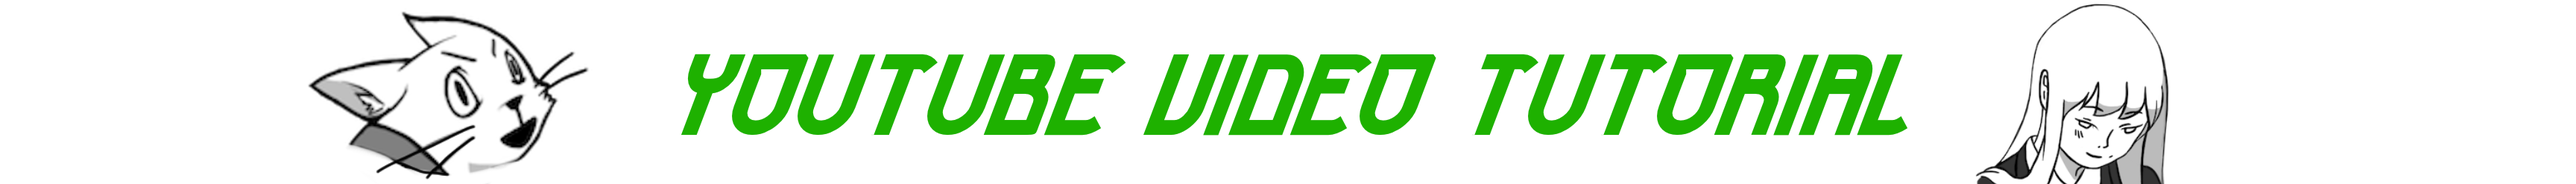
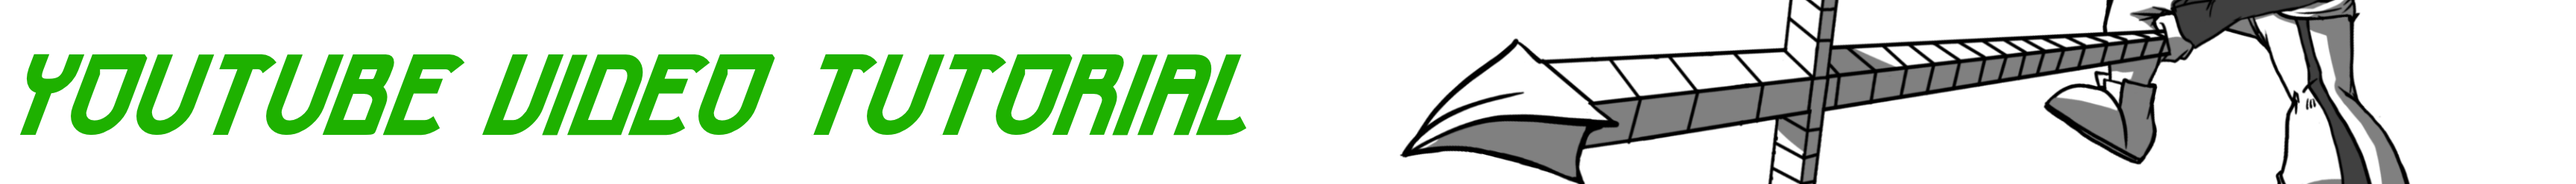
added headline images

diff --git a/MODDING.md b/MODDING.md
@@ -1,3 +1,5 @@
+![Modding Guide](docs/images/header-01-modding-guide-3.png)
+
 # [GAME NAME] Modding Guide
 
 You can change the battle music in [GAME NAME]. No tools needed. No code needed.
@@ -9,11 +11,25 @@ This is version 1 of modding. More categories (sprites, characters) will come la
 
 <br>
 
+![Youtube Video Tutorial](docs/images/header-02-youtube-video-tutorial.png)
+
 ## YouTube Video Tutorial
 
 Watch this to get an idea of how to mod this game. Have fun!
 
-[![Modding video tutorial](docs/images/video-01-tutorial.png)](https://www.youtube.com/watch?v=_cNIwKx5JDE)
+<!-- [![Modding Video Tutorial](docs/images/video-01-tutorial.png)](https://www.youtube.com/watch?v=_cNIwKx5JDE) -->
+
+<br>
+
+<a href="https://www.youtube.com/watch?v=_cNIwKx5JDE">
+  <img src="docs/images/video-01-tutorial.png" alt="Modding Video Tutorial" width="640">
+</a>
+
+### TIMECODE
+[0:27](https://www.youtube.com/watch?v=_cNIwKx5JDE&t=27s) dropdown menu \
+[1:45](https://www.youtube.com/watch?v=_cNIwKx5JDE&t=105s) adding a music file \
+[3:12](https://www.youtube.com/watch?v=_cNIwKx5JDE&t=192s) testing your mod in-game \
+[5:08](https://www.youtube.com/watch?v=_cNIwKx5JDE&t=308s) sharing your mod
 
 <br>
 
